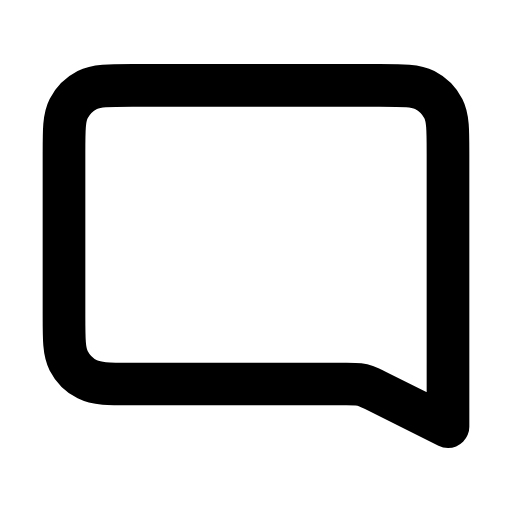
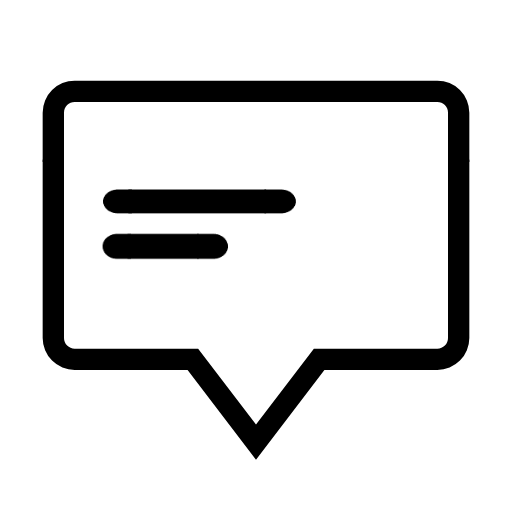
fix: change file routes
Message icon adjusted. #200

diff --git a/frontend/src/App.jsx b/frontend/src/App.jsx
@@ -1,7 +1,7 @@
 import { BrowserRouter as Router, Route, Routes, Navigate } from "react-router-dom"
-import Login from "./pages/no-authentified/Login"
-import Register from "./pages/no-authentified/Register"
-import Home from "./pages/no-authentified/Home.jsx"
+import Login from "./pages/no-authenticated/Login.jsx"
+import Register from "./pages/no-authenticated/Register.jsx"
+import Home from "./pages/no-authenticated/Home.jsx"
 import OtherServiceScreen from "./pages/clients/OtherServiceScreen.jsx"
 import Servicios from "./pages/provider/Servicios"
 import RegistrarServicio from "./pages/provider/RegistrarServicio.jsx"
@@ -10,7 +10,7 @@ import VenuesScreen from "./pages/clients/VenuesScreen"
 import EditarServicio from "./pages/provider/EditarServicio.jsx"
 import "./App.css"
 import NavBar from "./components/AppNavBar"
-import Terms from "./pages/no-authentified/Terms.jsx"
+import Terms from "./pages/no-authenticated/Terms.jsx"
 import { useCurrentUser } from "./hooks/useCurrentUser"
 import MyEvents from "./pages/clients/MyEvents.jsx"
 import CreateEvents from "./pages/clients/CreateEvents"
@@ -20,17 +20,17 @@ import AdminServices from "./pages/admin/AdminServices";
 import AdminUsers from "./pages/admin/AdminUsers";
 import Invitations from "./pages/clients/Invitations.jsx";
 import EventInvitations from "./pages/clients/EventInvitations";
-import RegisterInvitation from "./pages/no-authentified/RegisterInvitation";
+import RegisterInvitation from "./pages/no-authenticated/RegisterInvitation.jsx";
 import ConfirmEmailInvitation from "./pages/clients/ConfirmEmailInvitation.jsx";
 import Payment from "./pages/clients/Payment.jsx";
-import PrivateChat from "./pages/authentified/PrivateChat.jsx";
+import PrivateChat from "./pages/authenticated/PrivateChat.jsx";
 import FloatingChatButton from "./components/FloatingChatButton";
-import ChatList from "./pages/authentified/ChatList.jsx";
+import ChatList from "./pages/authenticated/ChatList.jsx";
 import Footer from "./components/Footer"
-import EditProfile from "./pages/EditProfile"
-import EditPlanProfile from "./pages/EditPlanProfile"
+import EditProfile from "./pages/authenticated/EditProfile.jsx"
+import EditPlanProfile from "./pages/provider/EditPlanProfile"
 import Notifications from "./pages/Notifications"
-import FAQ from "./pages/no-authentified/faqs.jsx"
+import FAQ from "./pages/no-authenticated/faqs.jsx"
 
 
 function App() {
